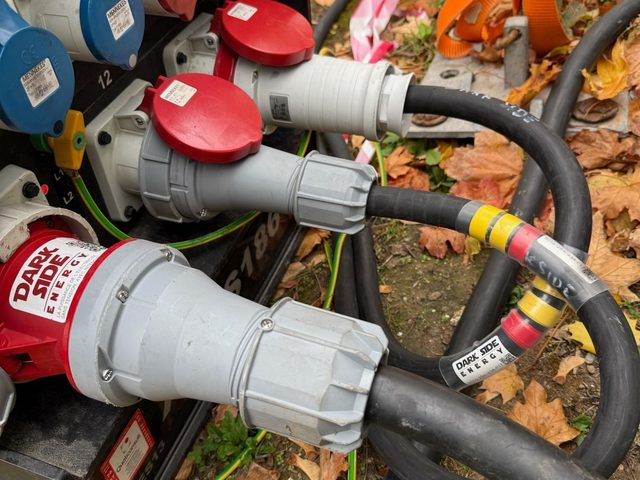
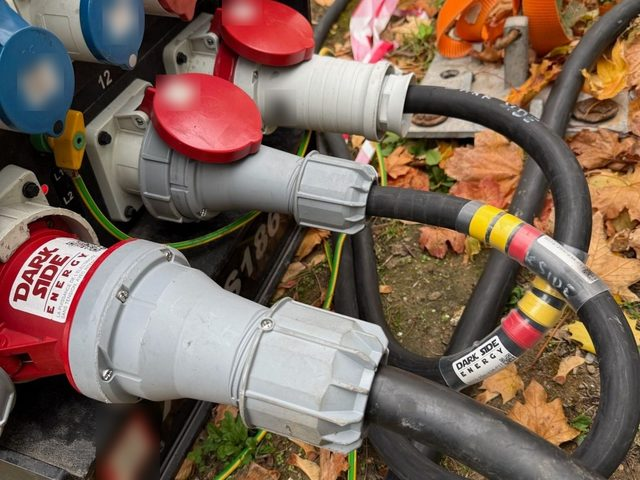
Semaine du 2 novembre validée ; photo de l'armoire P17 floutée sur le site ; article d'essai mis en brouillon
- Semaine du 2/11 : statut « validé par Damien le 27/10/2026 », calendrier à « validé ».
- Photo de l'armoire P17 (Nos produits, accueil, pages anglaises) : marques des prises floutées.
- Article « TT ou TN » : date passée et pas encore validé, il quitte a-paraitre/ et semaines/
  pour editorial/brouillons/regimes-de-neutre/ afin de ne pas partir à la fusion.

Claude-Session: https://claude.ai/code/session_01KYAdwUkupg8RtwwquDNbke

diff --git a/editorial/calendrier.md b/editorial/calendrier.md
@@ -9,7 +9,7 @@ Articles déjà en ligne (à ne pas refaire) : distribution électrique événem
 
 | Jour | Format | Sujet | Statut |
 |---|---|---|---|
-| Mar 20/10 | Le sais-tu ? (site) | TT ou TN : les régimes de neutre expliqués simplement, avec schémas animés et cas des ERP (sujet demandé par Damien, IT retiré) | rédigé |
+| Mar 20/10 | Le sais-tu ? (site) | TT ou TN : les régimes de neutre expliqués simplement, avec schémas animés et cas des ERP (sujet demandé par Damien, IT retiré) ; non publié le 20/10, en attente de validation dans `brouillons/regimes-de-neutre/` | reporté |
 
 ## Semaine du 26 octobre 2026
 
@@ -25,17 +25,17 @@ Articles déjà en ligne (à ne pas refaire) : distribution électrique événem
 
 | Jour | Format | Sujet | Statut |
 |---|---|---|---|
-| Lun 2/11 | Le sais-tu ? (site) | Pourquoi un groupe électrogène n'aime pas tourner presque à vide (sous-charge, encrassement) ; seuil : « le plus souvent 30 % », pas de chiffre unique | rédigé |
-| Mar 3/11 | Le sais-tu ? (site, aucune anecdote disponible) | Un câble enroulé sur son touret chauffe, pourquoi le dérouler | rédigé |
-| Mer 4/11 | Vrai ou faux | « Une prise P17 bleue, c'est du 230 V. » Vrai | rédigé |
-| Jeu 5/11 | Calculette | Chute de tension : 32 A en monophasé sur 80 m, quelle section ? | rédigé |
-| Ven 6/11 | Coulisses | Armoire de distribution P17 : repérage des câbles | rédigé |
+| Lun 2/11 | Le sais-tu ? (site) | Pourquoi un groupe électrogène n'aime pas tourner presque à vide (sous-charge, encrassement) ; seuil : « le plus souvent 30 % », pas de chiffre unique | validé |
+| Mar 3/11 | Le sais-tu ? (site, aucune anecdote disponible) | Un câble enroulé sur son touret chauffe, pourquoi le dérouler | validé |
+| Mer 4/11 | Vrai ou faux | « Une prise P17 bleue, c'est du 230 V. » Vrai | validé |
+| Jeu 5/11 | Calculette | Chute de tension : 32 A en monophasé sur 80 m, quelle section ? | validé |
+| Ven 6/11 | Coulisses | Armoire de distribution P17 : repérage des câbles | validé |
 
 ## Semaine du 9 novembre 2026
 
 | Jour | Format | Sujet | Statut |
 |---|---|---|---|
-| Lun 9/11 | Le sais-tu ? (site) | Le piquet de terre près du groupe : à quoi il sert (RA × IΔn ≤ 50 V) **à vérifier** : TT ou TN-S selon la liaison du neutre du groupe (IET Wiring Matters 2011), pour ne pas contredire l'article du 20/10 | prévu |
+| Lun 9/11 | Le sais-tu ? (site) | Le piquet de terre près du groupe : à quoi il sert (RA × IΔn ≤ 50 V) **à vérifier** : TT ou TN-S selon la liaison du neutre du groupe (IET Wiring Matters 2011), pour ne pas contredire l'article « TT ou TN » (en attente) | prévu |
 | Mar 10/11 | Cas terrain n° 2 (site) | Selon `anecdotes.md` ; à défaut : Powerlock, pourquoi on branche la terre en premier **à valider** : ordre de connexion pratiqué par nos équipes | prévu |
 | Mer 11/11 | (férié) | Pas de publication | |
 | Jeu 12/11 | Calculette | Réseaux étrangers : les mêmes kilowatts ne font pas les mêmes ampères en 120/208 V | prévu |

diff --git a/editorial/brouillons/README.md b/editorial/brouillons/README.md
@@ -1,0 +1,13 @@
+# Brouillons
+
+Articles et publications rédigés mais pas encore validés par Damien, sans date de parution. Rien ici n'est publié : la publication programmée ne lit que `a-paraitre/` et `semaines/`.
+
+À la validation :
+1. choisir le jour de parution et le reporter dans la configuration des pages (`"date"`) et dans `publications.md` ;
+2. déplacer `article/` vers `a-paraitre/AAAA-MM-JJ-nom/` ;
+3. reporter la publication du jour dans la semaine concernée (`semaines/AAAA-MM-JJ/publications.md`, avec son visuel) ;
+4. passer le sujet à « validé » dans `calendrier.md`.
+
+| Dossier | Sujet | Rédigé le | État |
+|---|---|---|---|
+| `regimes-de-neutre/` | TT ou TN : les régimes de neutre expliqués simplement (article d'essai de la chaîne, schémas animés, cas des ERP) | 20/10/2026 | en attente de la validation de Damien (environ 690 mots, au-delà de la règle des 600) |

diff --git a/editorial/README.md b/editorial/README.md
@@ -16,6 +16,7 @@ editorial/
     AAAA-MM-JJ-nom/      fr.html (obligatoire), en.html (facultatif)
   semaines/            Publications réseaux sociaux de chaque semaine
     AAAA-MM-JJ/          publications.md (textes LinkedIn et Facebook), visuels PNG et diffusion.json (journal des envois)
+  brouillons/          Articles rédigés en attente de validation, sans date de parution (jamais publiés tels quels)
 ```
 
 ## La semaine type

diff --git a/editorial/semaines/2026-11-02/publications.md b/editorial/semaines/2026-11-02/publications.md
@@ -1,6 +1,6 @@
 # Semaine du 2 novembre 2026
 
-Statut : **à valider par Damien**. Publication conseillée entre 8 h et 9 h. Visuels dans ce dossier (1200 × 1200).
+Statut : **validé par Damien le 27/10/2026**. Publication conseillée entre 8 h et 9 h. Visuels dans ce dossier (1200 × 1200).
 
 ## Valeurs vérifiées le 22/10/2026
 
